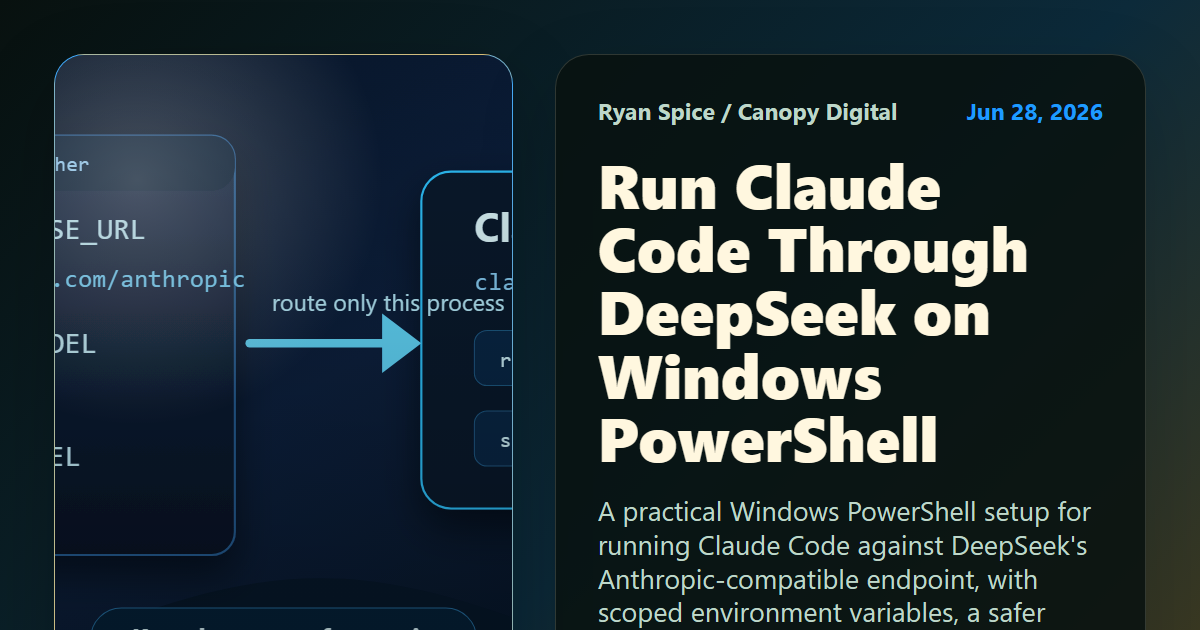
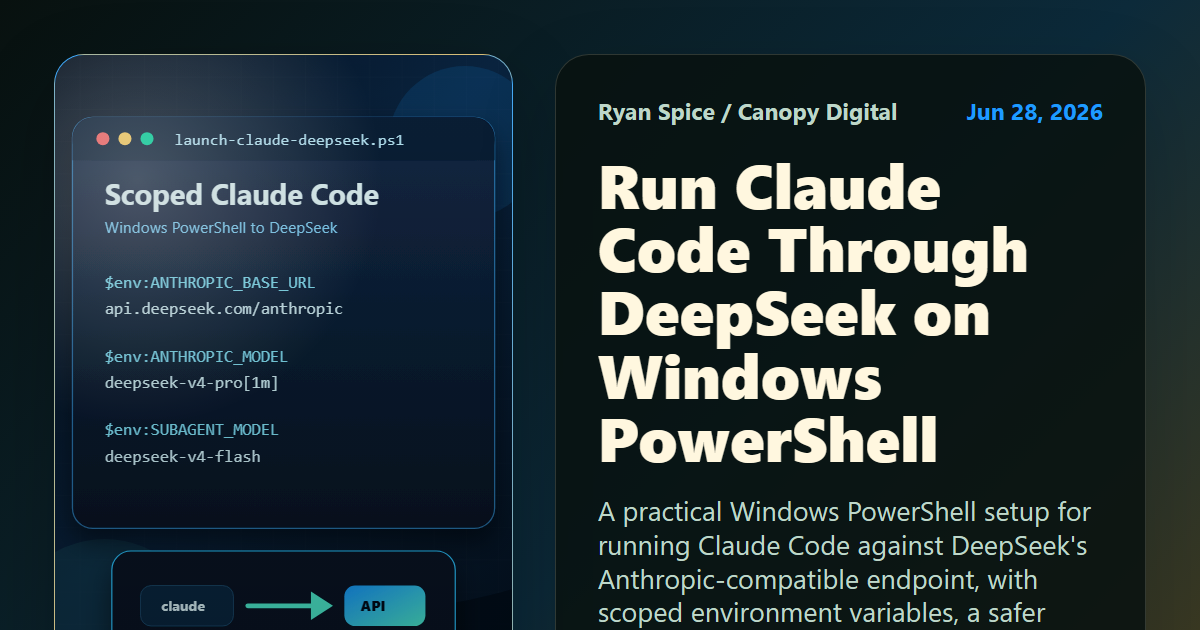
feat: add code copy controls to articles

diff --git a/static/site-runtime.js b/static/site-runtime.js
@@ -2,6 +2,8 @@
 	const viewModeKey = 'blog-article-view-mode';
 	const legacyReadingModeKey = 'blog-reading-mode';
 	let feedbackTimer = 0;
+	let visualFeedbackTimer = 0;
+	let activeVisualCopyButton = null;
 	let frame = 0;
 
 	function preferredReadingMode() {
@@ -65,7 +67,55 @@
 		}
 	}
 
-	function setFeedback(source, message) {
+	function codeBlockText(source) {
+		const block = source.closest('.code-block');
+		const code = block?.querySelector('code');
+		if (!code) return '';
+
+		const lines = Array.from(code.querySelectorAll('[data-line]'));
+		if (lines.length) return lines.map((line) => line.textContent || '').join('\n');
+		return code.textContent || '';
+	}
+
+	function resetVisualCopyButton(button) {
+		if (!button) return;
+
+		const label = button.getAttribute('data-copy-original-label');
+		const title = button.getAttribute('data-copy-original-title');
+		button.removeAttribute('data-copy-state');
+		if (label !== null) button.setAttribute('aria-label', label);
+		if (title !== null) button.setAttribute('title', title);
+	}
+
+	function setVisualCopyFeedback(source, message, state) {
+		if (!(source instanceof HTMLButtonElement) || !source.hasAttribute('data-copy-visual')) return false;
+
+		if (activeVisualCopyButton && activeVisualCopyButton !== source) {
+			resetVisualCopyButton(activeVisualCopyButton);
+		}
+
+		if (!source.hasAttribute('data-copy-original-label')) {
+			source.setAttribute('data-copy-original-label', source.getAttribute('aria-label') || '');
+		}
+		if (!source.hasAttribute('data-copy-original-title')) {
+			source.setAttribute('data-copy-original-title', source.getAttribute('title') || '');
+		}
+
+		source.setAttribute('data-copy-state', state);
+		source.setAttribute('aria-label', message);
+		source.setAttribute('title', message);
+		activeVisualCopyButton = source;
+		window.clearTimeout(visualFeedbackTimer);
+		visualFeedbackTimer = window.setTimeout(() => {
+			resetVisualCopyButton(source);
+			if (activeVisualCopyButton === source) activeVisualCopyButton = null;
+		}, 1800);
+		return true;
+	}
+
+	function setFeedback(source, message, state = 'copied') {
+		if (setVisualCopyFeedback(source, message, state)) return;
+
 		const feedbackId = source.getAttribute('data-copy-feedback');
 		const feedback = feedbackId
 			? document.getElementById(feedbackId)
@@ -260,17 +310,20 @@
 			return;
 		}
 
-		const copySource = target.closest('[data-copy-text], [data-copy-current-url]');
+		const copySource = target.closest('[data-copy-text], [data-copy-current-url], [data-copy-code]');
 		if (copySource) {
-			const text = copySource.hasAttribute('data-copy-current-url')
-				? window.location.href
-				: copySource.getAttribute('data-copy-text') || '';
+			const text = copySource.hasAttribute('data-copy-code')
+				? codeBlockText(copySource)
+				: copySource.hasAttribute('data-copy-current-url')
+					? window.location.href
+					: copySource.getAttribute('data-copy-text') || '';
 			const ok = await copyText(text);
 			setFeedback(
 				copySource,
 				ok
 					? copySource.getAttribute('data-copy-success') || 'Copied.'
-					: copySource.getAttribute('data-copy-failure') || 'Copy failed.'
+					: copySource.getAttribute('data-copy-failure') || 'Copy failed.',
+				ok ? 'copied' : 'failed'
 			);
 			return;
 		}

diff --git a/src/lib/markdown.ts b/src/lib/markdown.ts
@@ -249,6 +249,10 @@ function element(tagName: string, properties: Record<string, unknown> = {}, chil
 	return { type: 'element', tagName, properties, children };
 }
 
+function svgElement(tagName: string, properties: Record<string, unknown> = {}, children: any[] = []): any {
+	return element(tagName, properties, children);
+}
+
 function text(value: string): any {
 	return { type: 'text', value };
 }
@@ -465,6 +469,8 @@ async function createMarkdownProcessor(): Promise<(markdown: string) => Promise<
 
 	function markdownImageDimensions(src: string): { width: string; height: string } | undefined {
 		const knownDimensions: Array<[RegExp, number, number]> = [
+			[/deepseek-claude-code-launcher\.svg$/i, 1200, 675],
+			[/deepseek-claude-code-sidebar\.svg$/i, 900, 1200],
 			[/glm-5-2-search-map\.svg$/i, 1200, 675],
 			[/glm-5-2-delegate-fuse\.svg$/i, 1600, 900],
 			[/glm-5-2-hermes-focal\.svg$/i, 900, 1200],
@@ -537,8 +543,52 @@ async function createMarkdownProcessor(): Promise<(markdown: string) => Promise<
 				node.properties ??= {};
 				node.properties['data-lang'] = lang;
 				setClass(node, 'code-block');
+				if (!node.children.some((child: any) => child?.type === 'element' && child.tagName === 'button' && hasClass(child, 'code-copy-button'))) {
+					node.children.unshift(codeCopyButton(lang));
+				}
 			});
 		};
+	}
+
+	function codeCopyButton(lang: string): any {
+		return element(
+			'button',
+			{
+				type: 'button',
+				className: ['code-copy-button'],
+				'aria-label': `Copy ${lang} code`,
+				title: 'Copy code',
+				'data-copy-code': '',
+				'data-copy-visual': '',
+				'data-copy-success': 'Copied.',
+				'data-copy-failure': 'Copy failed.'
+			},
+			[
+				svgElement(
+					'svg',
+					{
+						className: ['code-copy-icon', 'code-copy-icon--copy'],
+						viewBox: '0 0 24 24',
+						'aria-hidden': 'true',
+						focusable: 'false'
+					},
+					[
+						svgElement('rect', { x: '9', y: '9', width: '10', height: '10', rx: '2' }),
+						svgElement('path', { d: 'M6 15H5a2 2 0 0 1-2-2V5a2 2 0 0 1 2-2h8a2 2 0 0 1 2 2v1' })
+					]
+				),
+				svgElement(
+					'svg',
+					{
+						className: ['code-copy-icon', 'code-copy-icon--check'],
+						viewBox: '0 0 24 24',
+						'aria-hidden': 'true',
+						focusable: 'false'
+					},
+					[svgElement('path', { d: 'M20 6 9 17l-5-5' })]
+				)
+			]
+		);
 	}
 
 	function rehypeHeadingsAndToc() {

diff --git a/src/app.css b/src/app.css
@@ -1710,7 +1710,7 @@ button.footer-auth-link {
 	position: relative;
 	overflow: auto;
 	margin: 22px 0;
-	padding: 18px;
+	padding: 18px 58px 18px 18px;
 	background: #060606;
 	border: 1px solid var(--metro-line-soft);
 	border-radius: 10px;
@@ -1742,6 +1742,72 @@ button.footer-auth-link {
 	font-size: 12px;
 	text-transform: uppercase;
 	letter-spacing: .12em;
+}
+
+.code-copy-button {
+	position: absolute;
+	top: 10px;
+	right: 10px;
+	display: inline-flex;
+	align-items: center;
+	justify-content: center;
+	width: 34px;
+	height: 34px;
+	padding: 0;
+	color: rgba(215, 232, 245, 0.78);
+	background: rgba(255, 255, 255, 0.055);
+	border: 1px solid rgba(255, 255, 255, 0.14);
+	border-radius: 8px;
+	cursor: pointer;
+	transition: color .16s ease, background .16s ease, border-color .16s ease, transform .16s ease;
+}
+
+.code-copy-button:hover,
+.code-copy-button:focus-visible {
+	color: #ffffff;
+	background: color-mix(in srgb, var(--article-accent, var(--accent)) 20%, rgba(255, 255, 255, 0.08));
+	border-color: color-mix(in srgb, var(--article-accent, var(--accent)) 52%, rgba(255, 255, 255, 0.18));
+}
+
+.code-copy-button:focus-visible {
+	outline: 2px solid color-mix(in srgb, var(--article-accent, var(--accent)) 72%, #ffffff);
+	outline-offset: 2px;
+}
+
+.code-copy-button:active {
+	transform: translateY(1px);
+}
+
+.code-copy-button[data-copy-state="copied"] {
+	color: #a7f3d0;
+	border-color: rgba(167, 243, 208, 0.45);
+}
+
+.code-copy-button[data-copy-state="failed"] {
+	color: #ffb4a8;
+	border-color: rgba(255, 180, 168, 0.48);
+}
+
+.code-copy-icon {
+	width: 17px;
+	height: 17px;
+	fill: none;
+	stroke: currentColor;
+	stroke-width: 2;
+	stroke-linecap: round;
+	stroke-linejoin: round;
+}
+
+.code-copy-icon--check {
+	display: none;
+}
+
+.code-copy-button[data-copy-state="copied"] .code-copy-icon--copy {
+	display: none;
+}
+
+.code-copy-button[data-copy-state="copied"] .code-copy-icon--check {
+	display: block;
 }
 
 .code-block code {

diff --git a/tests/e2e/site-runtime.spec.ts b/tests/e2e/site-runtime.spec.ts
@@ -1,6 +1,6 @@
 import { expect, test } from '@playwright/test';
 
-const articlePath = '/agent-mixing-deepseek-pro-flash-gemma4-diminishing-returns/';
+const articlePath = '/deepseek-claude-code-windows-powershell/';
 
 test('site runtime handles prerendered article controls', async ({ page }, testInfo) => {
 	test.skip(testInfo.project.name !== 'catalog-desktop', 'Runtime contract is covered once on desktop.');
@@ -28,6 +28,11 @@ test('site runtime handles prerendered article controls', async ({ page }, testI
 			return Number.parseFloat(progressWidth);
 		})
 		.toBeGreaterThan(0);
+
+	const codeCopyButton = page.locator('[data-copy-code]').first();
+	await expect(codeCopyButton).toBeVisible();
+	await codeCopyButton.click();
+	await expect(codeCopyButton).toHaveAttribute('data-copy-state', 'copied');
 });
 
 test('site runtime handles prerendered copy controls', async ({ page }, testInfo) => {

diff --git a/src/lib/content/articles/deepseek-claude-code-windows-powershell.md b/src/lib/content/articles/deepseek-claude-code-windows-powershell.md
@@ -9,18 +9,18 @@ updated_date: "2026-06-28"
 summary: "A practical Windows PowerShell setup for running Claude Code against DeepSeek's Anthropic-compatible endpoint, with scoped environment variables, a safer launcher script, and a low-risk smoke test."
 seo_description: "How to configure Claude Code on Windows PowerShell to use DeepSeek's Anthropic-compatible API endpoint, including environment variables, model names, a local launcher script, and safe key handling."
 accent: "#1e9bff"
-image: "/img/articles/deepseek-claude-code-windows-powershell/deepseek-claude-code-launcher.svg"
-image_alt: "A Windows PowerShell launcher routes Claude Code environment variables to DeepSeek's Anthropic-compatible API endpoint."
+image: "/img/articles/deepseek-claude-code-windows-powershell/deepseek-claude-code-sidebar.svg"
+image_alt: "A vertical Windows PowerShell card routes Claude Code through a scoped launcher to DeepSeek."
 image_credit: "Generated SVG diagram by Ryan Spice / Codex"
-image_position: "center center"
-row_image: "/img/articles/deepseek-claude-code-windows-powershell/deepseek-claude-code-launcher.svg"
-row_image_alt: "Diagram of Claude Code using PowerShell environment variables to talk to DeepSeek."
+image_position: "center top"
+row_image: "/img/articles/deepseek-claude-code-windows-powershell/deepseek-claude-code-sidebar.svg"
+row_image_alt: "Vertical diagram of Claude Code using PowerShell environment variables to talk to DeepSeek."
 row_image_credit: "Generated SVG diagram by Ryan Spice / Codex"
-row_image_position: "center center"
-background_image: "/img/articles/deepseek-claude-code-windows-powershell/deepseek-claude-code-launcher.svg"
-background_image_alt: "DeepSeek Claude Code PowerShell setup diagram."
+row_image_position: "center top"
+background_image: "/img/articles/deepseek-claude-code-windows-powershell/deepseek-claude-code-sidebar.svg"
+background_image_alt: "DeepSeek Claude Code PowerShell sidebar setup diagram."
 background_image_credit: "Generated SVG diagram by Ryan Spice / Codex"
-background_image_position: "center center"
+background_image_position: "center top"
 audience:
   - "Windows developers"
   - "PowerShell users"
@@ -68,6 +68,8 @@ Base URL: https://api.deepseek.com/anthropic
 Main model: deepseek-v4-pro[1m]
 Fast/subagent model: deepseek-v4-flash
 ```
+
+![PowerShell environment variables route Claude Code to DeepSeek's Anthropic-compatible API endpoint.](/img/articles/deepseek-claude-code-windows-powershell/deepseek-claude-code-launcher.svg "The scoped launcher keeps the DeepSeek route attached to one Claude Code process instead of changing the default shell environment.")
 
 ## 1. Check Claude Code first
 
